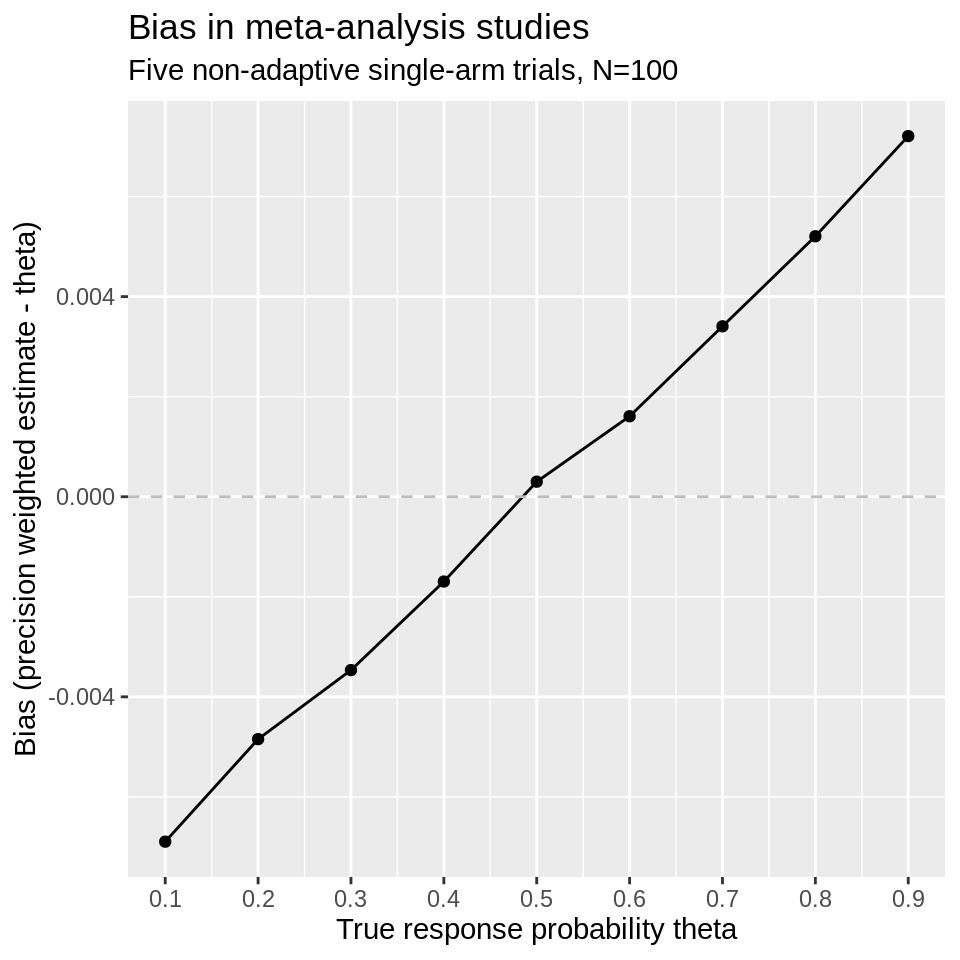
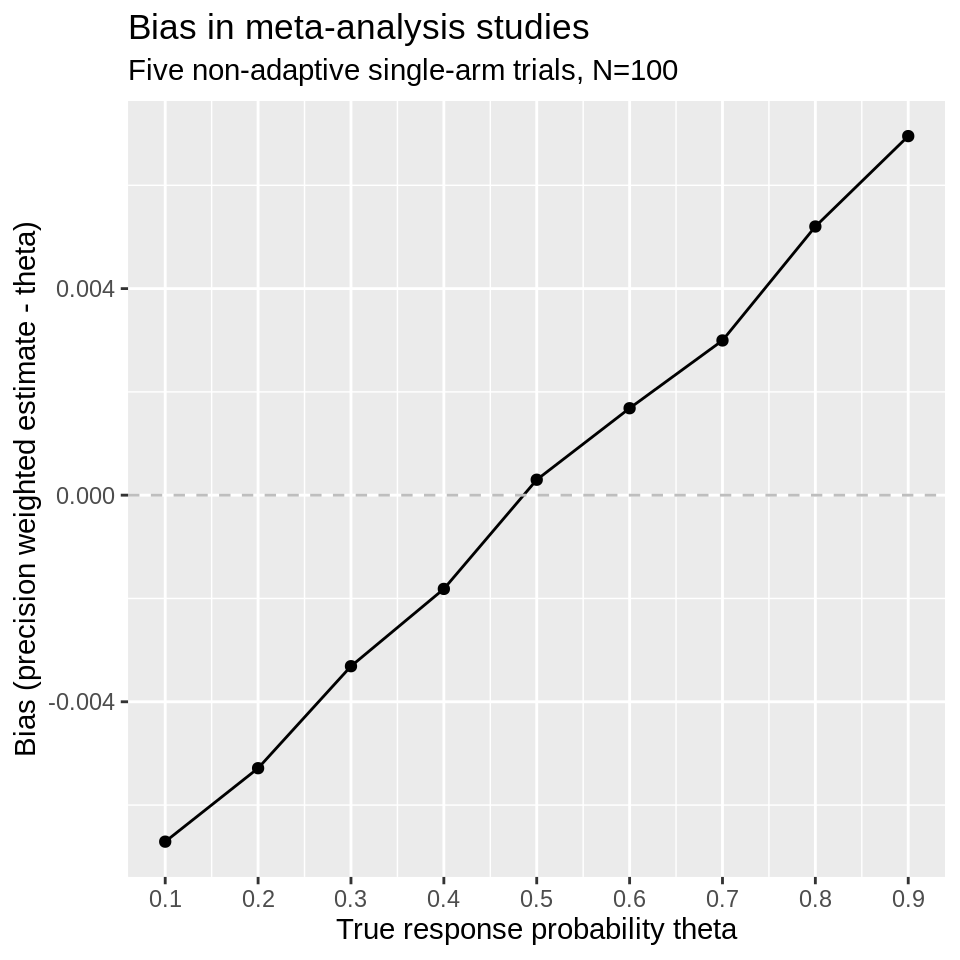
Built site for pwb: 0.0.0.9000@8ce7de3

diff --git a/articles/MA_GS.html b/articles/MA_GS.html
@@ -131,7 +131,7 @@
 <div class="section level3">
 <h3 id="p00-8">p0=0.8<a class="anchor" aria-label="anchor" href="#p00-8"></a>
 </h3>
-<p>As with the single Simon design, let us examine what happens when the response rate is not close to 0.5. Here, we obtain a Simon design for p0=0.8, p1=0.9. We reduce type-I error-rate to 0.05 and increase power to 90% to increase the maximum sample size and number of interim analysis, both of which would be otherwise reduced by the high anticipated response rates.</p>
+<p>As with the single Simon design, let us examine what happens when the response rate is not close to 0.5. Here, we obtain a GS design for p0=0.8, p1=0.9. We reduce type-I error-rate to 0.05 and increase power to 90% to increase the maximum sample size and number of interim analysis, both of which would be otherwise reduced by the high anticipated response rates.</p>
 <div class="sourceCode" id="cb5"><pre class="downlit sourceCode r">
 <code class="sourceCode R"><span class="va">gs.des2</span> <span class="op">&lt;-</span> <span class="fu">curtailment</span><span class="fu">::</span><span class="fu"><a href="https://rdrr.io/pkg/curtailment/man/singlearmDesign.html" class="external-link">singlearmDesign</a></span><span class="op">(</span>nmin<span class="op">=</span><span class="fl">50</span>,
                                    nmax<span class="op">=</span><span class="fl">140</span>,
@@ -147,7 +147,7 @@
 
 <span class="co"># Obtain stopping bounds:</span>
 <span class="va">bounds2</span> <span class="op">&lt;-</span> <span class="fu">curtailment</span><span class="fu">::</span><span class="fu"><a href="https://rdrr.io/pkg/curtailment/man/drawDiagram.html" class="external-link">drawDiagram</a></span><span class="op">(</span><span class="va">gs.des2</span><span class="op">)</span></code></pre></div>
-<p>Again, simulate meta-analyses of this Simon design and single-arm single-stage trials with the same maximum sample size <em>N</em> as the Simon design:</p>
+<p>Again, simulate meta-analyses of this group sequential design and single-arm single-stage trials with the same maximum sample size <em>N</em> as the group sequential design:</p>
 <div class="sourceCode" id="cb6"><pre class="downlit sourceCode r">
 <code class="sourceCode R"><span class="va">theta.vec</span> <span class="op">&lt;-</span> <span class="fu"><a href="https://rdrr.io/r/base/seq.html" class="external-link">seq</a></span><span class="op">(</span><span class="fl">0.1</span>, <span class="fl">0.9</span>, <span class="fl">0.1</span><span class="op">)</span>
 <span class="va">ma.gs.results2</span> <span class="op">&lt;-</span> <span class="fu"><a href="https://rdrr.io/r/base/vector.html" class="external-link">vector</a></span><span class="op">(</span><span class="st">"list"</span>, <span class="fu"><a href="https://rdrr.io/r/base/length.html" class="external-link">length</a></span><span class="op">(</span><span class="va">theta.vec</span><span class="op">)</span><span class="op">)</span>
@@ -183,7 +183,7 @@
                                    max.combns<span class="op">=</span><span class="fl">1e3</span><span class="op">)</span>
 <span class="co"># Obtain stopping bounds:</span>
 <span class="va">bounds3</span> <span class="op">&lt;-</span> <span class="fu">curtailment</span><span class="fu">::</span><span class="fu"><a href="https://rdrr.io/pkg/curtailment/man/drawDiagram.html" class="external-link">drawDiagram</a></span><span class="op">(</span><span class="va">gs.des3</span><span class="op">)</span></code></pre></div>
-<p>Again, simulate meta-analyses of this Simon design and single-arm single-stage trials with the same maximum sample size <em>N</em> as the Simon design:</p>
+<p>Again, simulate meta-analyses of this group sequential design and single-arm single-stage trials with the same maximum sample size <em>N</em> as the group sequential design:</p>
 <div class="sourceCode" id="cb9"><pre class="downlit sourceCode r">
 <code class="sourceCode R"><span class="va">theta.vec.low</span> <span class="op">&lt;-</span> <span class="fu"><a href="https://rdrr.io/r/base/seq.html" class="external-link">seq</a></span><span class="op">(</span><span class="fl">0.1</span>, <span class="fl">0.9</span>, <span class="fl">0.1</span><span class="op">)</span>
 <span class="va">ma.gs.results3</span> <span class="op">&lt;-</span> <span class="fu"><a href="https://rdrr.io/r/base/vector.html" class="external-link">vector</a></span><span class="op">(</span><span class="st">"list"</span>, <span class="fu"><a href="https://rdrr.io/r/base/length.html" class="external-link">length</a></span><span class="op">(</span><span class="va">theta.vec.low</span><span class="op">)</span><span class="op">)</span>

diff --git a/articles/two_arm_two_stage_full.html b/articles/two_arm_two_stage_full.html
@@ -111,11 +111,24 @@
 
 <span class="kw">for</span><span class="op">(</span><span class="va">i</span> <span class="kw">in</span> <span class="fl">1</span><span class="op">:</span><span class="fu"><a href="https://rdrr.io/r/base/length.html" class="external-link">length</a></span><span class="op">(</span><span class="va">theta1.vec</span><span class="op">)</span><span class="op">)</span><span class="op">{</span>
   <span class="va">ma2stage.results</span><span class="op">[[</span><span class="va">i</span><span class="op">]</span><span class="op">]</span> <span class="op">&lt;-</span> <span class="fu"><a href="../reference/ma2stage.html">ma2stage</a></span><span class="op">(</span>N<span class="op">=</span><span class="fl">2428</span>, theta0<span class="op">=</span><span class="va">theta1.vec</span><span class="op">[</span><span class="va">i</span><span class="op">]</span><span class="op">+</span><span class="fl">0.05</span>, theta1<span class="op">=</span><span class="va">theta1.vec</span><span class="op">[</span><span class="va">i</span><span class="op">]</span>,
-                                    n.studies<span class="op">=</span><span class="fl">4</span>, nsims<span class="op">=</span><span class="fl">1e5</span><span class="op">)</span>
+                                    n.studies<span class="op">=</span><span class="fl">4</span>, nsims<span class="op">=</span><span class="fl">1e4</span><span class="op">)</span>
 <span class="op">}</span>
   
-<span class="va">ma2stage.results</span> <span class="op">&lt;-</span> <span class="fu"><a href="https://rdrr.io/r/base/do.call.html" class="external-link">do.call</a></span><span class="op">(</span><span class="va">rbind</span>, <span class="va">ma2stage.results</span><span class="op">)</span></code></pre></div>
+<span class="va">ma2stage.results</span> <span class="op">&lt;-</span> <span class="fu"><a href="https://rdrr.io/r/base/do.call.html" class="external-link">do.call</a></span><span class="op">(</span><span class="va">rbind</span>, <span class="va">ma2stage.results</span><span class="op">)</span>
+<span class="va">ma2stage.results</span><span class="op">$</span><span class="va">theta01</span> <span class="op">&lt;-</span> <span class="st">"theta1-theta0=0.05"</span></code></pre></div>
 <p><img src="figures/MA%202-stage%20plot-1.png" width="384"></p>
+<div class="sourceCode" id="cb4"><pre class="downlit sourceCode r">
+<code class="sourceCode R"><span class="va">ma2stage.results2</span> <span class="op">&lt;-</span> <span class="fu"><a href="https://rdrr.io/r/base/vector.html" class="external-link">vector</a></span><span class="op">(</span><span class="st">"list"</span>, <span class="fu"><a href="https://rdrr.io/r/base/length.html" class="external-link">length</a></span><span class="op">(</span><span class="va">theta1.vec</span><span class="op">)</span><span class="op">)</span>
+
+<span class="kw">for</span><span class="op">(</span><span class="va">i</span> <span class="kw">in</span> <span class="fl">1</span><span class="op">:</span><span class="fu"><a href="https://rdrr.io/r/base/length.html" class="external-link">length</a></span><span class="op">(</span><span class="va">theta1.vec</span><span class="op">)</span><span class="op">)</span><span class="op">{</span>
+  <span class="va">ma2stage.results2</span><span class="op">[[</span><span class="va">i</span><span class="op">]</span><span class="op">]</span> <span class="op">&lt;-</span> <span class="fu"><a href="../reference/ma2stage.html">ma2stage</a></span><span class="op">(</span>N<span class="op">=</span><span class="fl">2428</span>, theta0<span class="op">=</span><span class="fl">0.3</span>, theta1<span class="op">=</span><span class="va">theta1.vec</span><span class="op">[</span><span class="va">i</span><span class="op">]</span>,
+                                    n.studies<span class="op">=</span><span class="fl">4</span>, nsims<span class="op">=</span><span class="fl">1e4</span><span class="op">)</span>
+<span class="op">}</span>
+  
+<span class="va">ma2stage.results2</span> <span class="op">&lt;-</span> <span class="fu"><a href="https://rdrr.io/r/base/do.call.html" class="external-link">do.call</a></span><span class="op">(</span><span class="va">rbind</span>, <span class="va">ma2stage.results2</span><span class="op">)</span>
+<span class="va">ma2stage.results2</span><span class="op">$</span><span class="va">theta01</span> <span class="op">&lt;-</span> <span class="st">"theta0=0.3"</span></code></pre></div>
+<p><img src="figures/MA%202-stage%20plot%202-1.png" width="384"></p>
+<p><img src="figures/combined%20plot-1.png" width="576"></p>
   </main>
 </div>
 

diff --git a/articles/GS.html b/articles/GS.html
@@ -103,10 +103,10 @@
                      nsims<span class="op">=</span><span class="va">nsims</span><span class="op">)</span>
   <span class="va">single.GS</span><span class="op">$</span><span class="va">ests</span><span class="op">[</span>, <span class="fl">1</span><span class="op">:</span><span class="fl">5</span><span class="op">]</span>
 <span class="co">#&gt;                          nsims    bias mean.SE emp.SE theta</span>
-<span class="co">#&gt; Stopped early            39140 -0.0452  0.0455 0.0272   0.5</span>
-<span class="co">#&gt; Complete                 60860  0.0248  0.0421 0.0299   0.5</span>
-<span class="co">#&gt; All                     100000 -0.0026  0.0434 0.0448   0.5</span>
-<span class="co">#&gt; All (precision-weghted) 100000  0.0001  0.0433     NA   0.5</span>
+<span class="co">#&gt; Stopped early            39554 -0.0452  0.0455 0.0271   0.5</span>
+<span class="co">#&gt; Complete                 60446  0.0246  0.0421 0.0301   0.5</span>
+<span class="co">#&gt; All                     100000 -0.0030  0.0435 0.0448   0.5</span>
+<span class="co">#&gt; All (precision-weghted) 100000 -0.0003  0.0433     NA   0.5</span>
   <span class="fu"><a href="https://rdrr.io/r/base/Round.html" class="external-link">round</a></span><span class="op">(</span><span class="va">single.GS</span><span class="op">$</span><span class="va">mc.error</span>, <span class="fl">5</span><span class="op">)</span>
 <span class="co">#&gt; [1] 0.00014 0.00010</span></code></pre></div>
 <p>How does bias compare when the true response probability is varied? Find results for a vector of true response probabilities:</p>

diff --git a/reference/pwb2stage.html b/reference/pwb2stage.html
@@ -64,9 +64,9 @@
     <dl><dt>N</dt>
 <dd><p>Maximum sample size</p></dd>
 <dt>theta0</dt>
-<dd><p>true response probablity for control arm</p></dd>
+<dd><p>true response probability for control arm</p></dd>
 <dt>theta1</dt>
-<dd><p>true response probablity for treatment arm</p></dd>
+<dd><p>true response probability for treatment arm</p></dd>
 <dt>nsims</dt>
 <dd><p>number of simulations (default 1e4)</p></dd>
 </dl></div>
